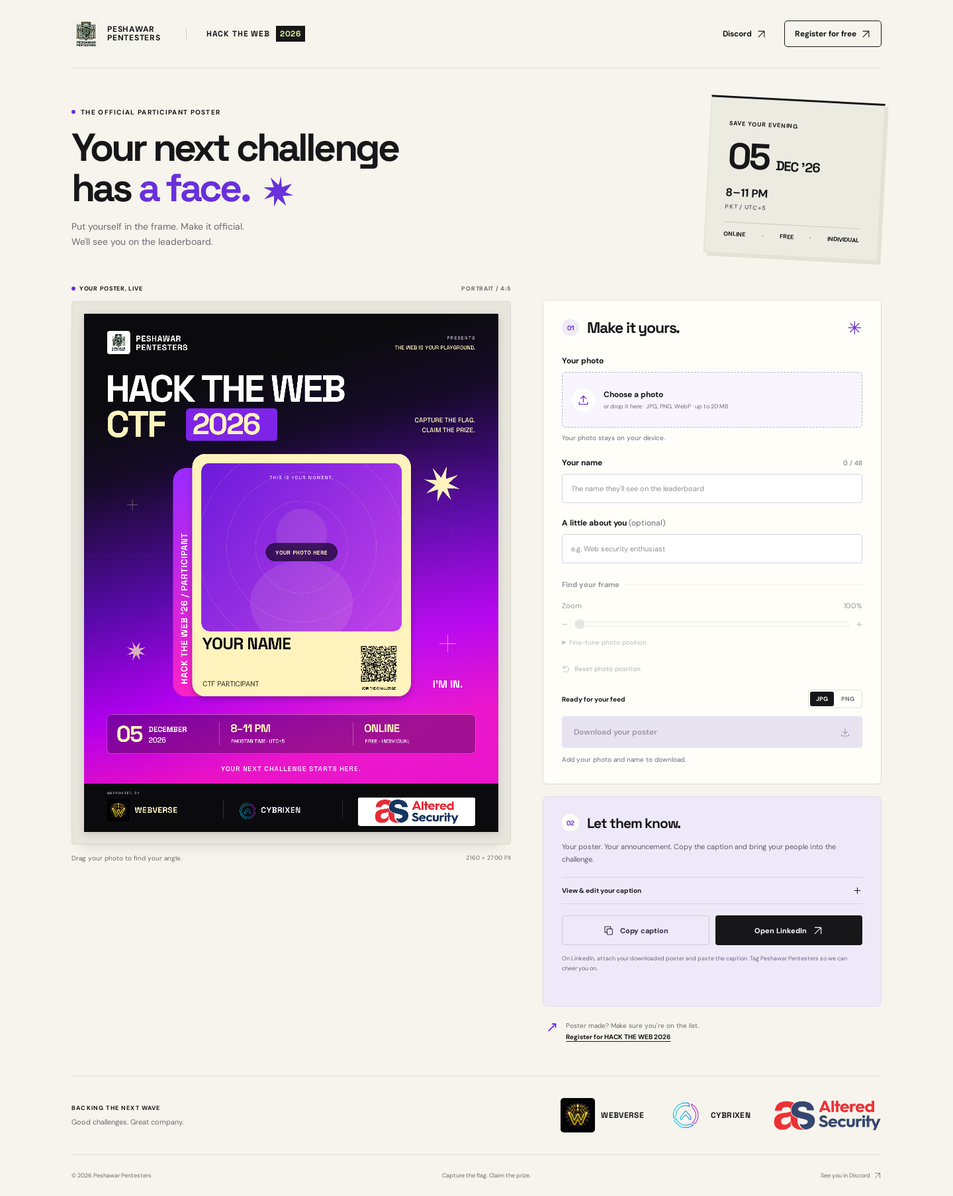
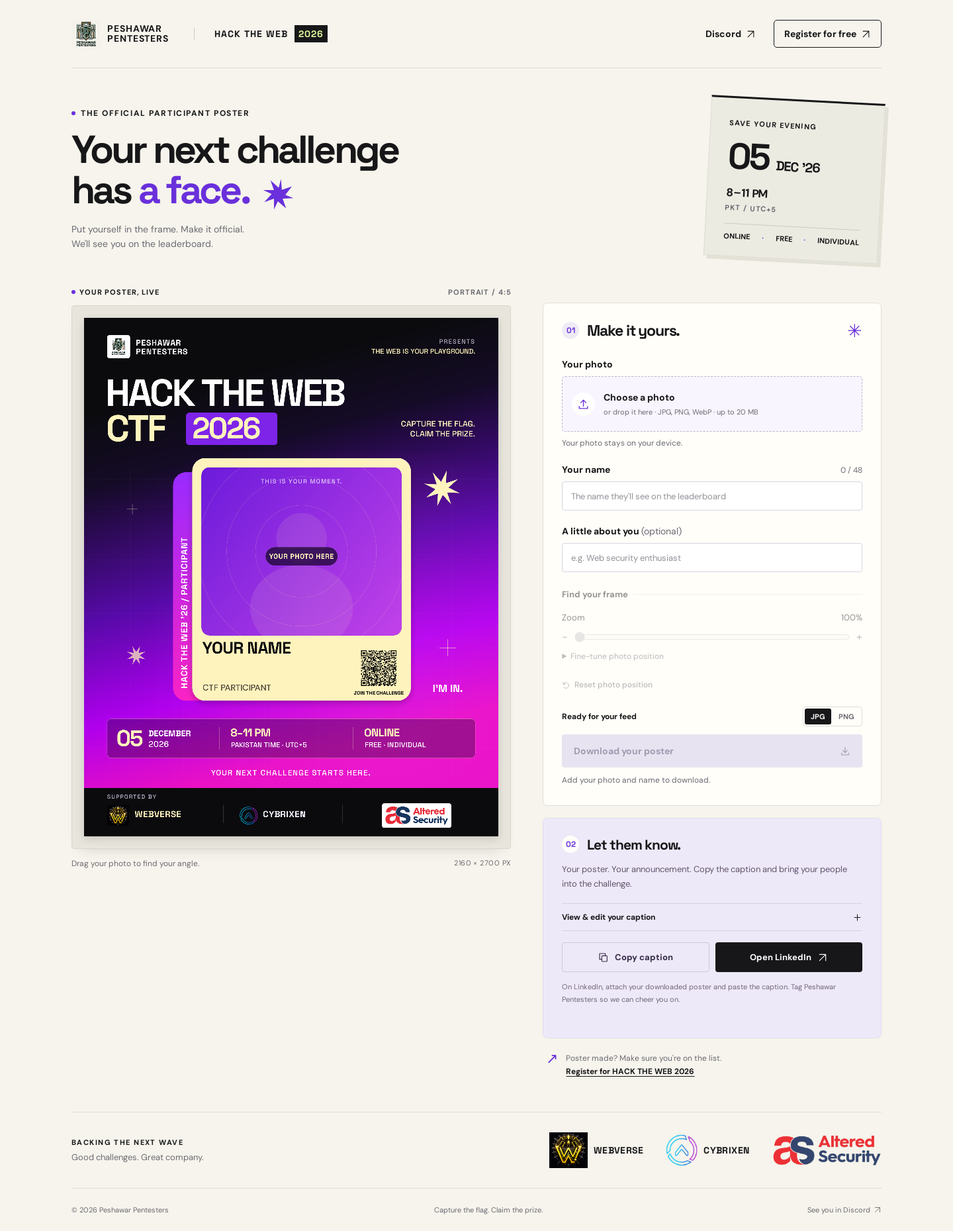
Fix sponsor sizing and small text while preserving original design

diff --git a/styles.css b/styles.css
@@ -2,12 +2,25 @@
 @font-face{font-family:DM;src:url('/assets/fonts/dm-sans.woff2') format('woff2');font-weight:400 700;font-display:swap}
 :root{color-scheme:light;--paper:#f6f4ec;--ink:#171719;--muted:#6c6a72;--line:#deddd5;--purple:#6930db;--pink:#ee4fbc;--lime:#e1fa9b;--cream:#fff3bd;--font:DM,Arial,sans-serif}
 *{box-sizing:border-box}body{margin:0;background:var(--paper);color:var(--ink);font-family:var(--font);-webkit-font-smoothing:antialiased}button,input,textarea{font:inherit}button,a,input,textarea,summary{ -webkit-tap-highlight-color:transparent}button,a{touch-action:manipulation}button{cursor:pointer}a{color:inherit}button:disabled{cursor:not-allowed}button[hidden],[hidden]{display:none!important}.icon-defs{position:absolute;width:0;height:0;overflow:hidden}.icon{width:19px;height:19px;flex-shrink:0;fill:none;stroke:currentColor;stroke-width:1.7;stroke-linecap:round;stroke-linejoin:round}a:focus-visible,button:focus-visible,summary:focus-visible,canvas:focus-visible,input:focus-visible,textarea:focus-visible{outline:3px solid var(--purple);outline-offset:4px}.shell{width:min(1224px,calc(100% - 80px));margin-inline:auto}.skip-link{position:absolute;left:12px;top:-100px;z-index:9;background:var(--ink);color:#fff;padding:12px}.skip-link:focus{top:12px}
-.site-header{height:103px;display:flex;align-items:center;border-bottom:1px solid var(--line);gap:38px}.brand{display:flex;align-items:center;gap:10px;text-decoration:none;line-height:1.05;font-size:12px;letter-spacing:.065em;font-weight:700}.brand img{border-radius:4px;object-fit:contain;mix-blend-mode:multiply}.edition{border-left:1px solid #cccac2;padding-left:30px;font-family:Space,Arial,sans-serif;font-size:12px;letter-spacing:.07em;font-weight:700}.edition span{background:var(--ink);color:var(--lime);padding:4px 6px;margin-left:5px}.header-nav{margin-left:auto;display:flex;align-items:center;gap:27px;font-size:12px;font-weight:700}.header-nav a{display:flex;align-items:center;gap:7px;text-decoration:none}.header-nav a:hover{text-decoration:underline;text-underline-offset:4px}.header-nav .register-link{border:1px solid var(--ink);padding:11px 15px;border-radius:5px}.header-nav .icon{width:15px;height:15px}
-.intro{display:flex;align-items:center;justify-content:space-between;gap:35px;padding:47px 0 42px}.eyebrow{font-size:10px;letter-spacing:.13em;line-height:1.5;font-weight:700;margin:0 0 15px;display:flex;align-items:center;gap:8px}.status-dot{width:6px;height:6px;border-radius:50%;background:var(--purple)}h1,h2,p{margin-top:0}h1{position:relative;font-family:Space,Arial,sans-serif;font-weight:700;font-size:clamp(38px,4.4vw,59px);line-height:1.04;letter-spacing:-.065em;margin-bottom:17px}h1>span{color:var(--purple)}.title-spark{fill:var(--purple);width:47px;height:47px;margin-left:20px;vertical-align:middle;transform:rotate(10deg)}.intro-description{font-size:14px;color:var(--muted);line-height:1.6;margin:0}.event-stamp{padding:25px 28px 23px;width:263px;flex-shrink:0;border:1px solid var(--line);border-top:3px solid var(--ink);background:#ecebe1;transform:rotate(3deg);box-shadow:5px 5px 0 #e4e2d7}.stamp-label{font-size:9px;letter-spacing:.1em;font-weight:700}.event-stamp strong{font-family:Space,Arial,sans-serif;font-size:55px;letter-spacing:-.06em;line-height:1.5;display:block}.event-stamp strong span{font-size:20px;letter-spacing:-.04em}.event-stamp p{font-weight:700;font-size:17px;margin:2px 0 17px}.event-stamp p span{display:block;font-size:9px;color:var(--muted);letter-spacing:.08em;margin-top:5px}.event-stamp>div{border-top:1px solid #cccac2;padding-top:11px;font-size:9px;font-weight:700;display:flex;justify-content:space-between}.event-stamp>div span{color:var(--purple)}
-.studio{display:grid;grid-template-columns:minmax(0,1.13fr) minmax(340px,.87fr);gap:48px;align-items:start;padding-bottom:50px;scroll-margin-top:20px}.preview-column{position:sticky;top:22px;min-width:0}.panel-heading{display:flex;align-items:center;justify-content:space-between;margin-bottom:13px;font-size:9px;letter-spacing:.08em;font-weight:700;color:var(--muted)}.panel-heading>span:first-child{display:flex;align-items:center;gap:6px;color:var(--ink)}.panel-heading i{display:inline-block;width:6px;height:6px;background:var(--purple);border-radius:50%}.poster-board{position:relative;padding:18px;background:#e7e5dc;border:1px solid #d9d6cc;border-radius:4px;box-shadow:0 13px 20px -15px #302d3d33}.poster-board canvas{width:100%;height:auto;display:block;aspect-ratio:4/5;background:#0b0b0c;box-shadow:0 4px 12px #0002;cursor:default;touch-action:pan-y}.poster-board.has-photo canvas{cursor:grab;touch-action:none}.poster-board.is-dragging canvas{cursor:grabbing}.loading-state{position:absolute;inset:18px;display:flex;align-items:center;justify-content:center;background:#111016;color:var(--cream);font-size:14px;text-align:center;padding:30px}.preview-note{display:flex;justify-content:space-between;gap:10px;font-size:10px;color:var(--muted);margin-top:14px}.quality-label{font-size:9px;letter-spacing:.04em;white-space:nowrap}.editor-column{padding-top:23px;min-width:0}.editor-card,.share-card{background:#fffef9;border:1px solid var(--line);border-radius:7px;padding:28px}.card-title{display:flex;align-items:center;gap:12px;margin-bottom:28px}.step{display:flex;align-items:center;justify-content:center;font-family:Space,Arial,sans-serif;font-size:10px;font-weight:700;width:26px;height:26px;border-radius:50%;background:#eeebf5;color:var(--purple)}h2{font-family:Space,Arial,sans-serif;letter-spacing:-.05em;font-size:23px;line-height:1.2;font-weight:700;margin:0}.small-star{margin-left:auto;color:var(--purple);font-size:27px;line-height:1}.field{margin-bottom:22px}.field-label{font-size:12px;font-weight:700;display:block;margin-bottom:9px}.field-label>span{font-weight:400;color:var(--muted)}.label-row{display:flex;justify-content:space-between;align-items:baseline;gap:12px}.label-row>span:not(.field-label){font-size:10px;color:var(--muted)}.label-row output{font-size:11px;font-variant-numeric:tabular-nums}.upload-area{position:relative;display:flex;align-items:center;gap:13px;padding:18px 14px;border:1px dashed #bdb4ce;border-radius:5px;background:#f8f5ff;cursor:pointer;min-height:84px;transition:border-color .2s,background .2s}.upload-area:hover,.upload-area.drag-over{border-color:var(--purple);background:#f0e9ff}.upload-area:focus-within{outline:3px solid var(--purple);outline-offset:3px}.upload-area input{position:absolute;width:100%;height:100%;opacity:0;inset:0;cursor:pointer}.upload-area>span{pointer-events:none}.upload-symbol{display:flex;align-items:center;justify-content:center;width:35px;height:35px;border-radius:50%;background:#fff;color:var(--purple);flex-shrink:0}.upload-area strong{display:block;font-size:12px;line-height:1.5;overflow-wrap:anywhere}.upload-area small{display:block;font-size:9px;color:var(--muted);margin-top:3px;line-height:1.5}.field-hint{font-size:10px;line-height:1.5;color:var(--muted);margin:8px 0 0}input[type=text],textarea{width:100%;background:#fff;border:1px solid #d8d5df;border-radius:4px;color:var(--ink);padding:12px 13px;font-size:12px}input[type=text]{min-height:44px}input::placeholder{color:#939098;font-size:11px}input:focus,textarea:focus{border-color:var(--purple);outline:none;box-shadow:0 0 0 3px #6930db13}.subtitle-field{margin-bottom:25px}.photo-controls{border:0;border-top:1px solid var(--line);padding:18px 0 0;margin:0;min-width:0}.photo-controls legend{font-size:11px;font-weight:700;padding:0 8px 0 0}.photo-controls:disabled{opacity:.45}.photo-controls .label-row label{font-size:11px}.range-row{display:flex;align-items:center;gap:10px;margin-top:10px}.range-row>span{font-size:16px;color:#78727f}input[type=range]{width:100%;height:20px;accent-color:var(--purple);cursor:pointer;margin:0}.position-details{margin-top:11px;font-size:10px}.position-details summary{cursor:pointer;color:var(--muted);font-size:10px;margin-bottom:12px}.position-details label{display:block;color:var(--muted);margin-top:8px}.text-button{padding:6px 0;display:flex;align-items:center;gap:6px;border:0;background:none;font-weight:500;font-size:10px}.text-button .icon{width:13px;height:13px}.text-button:hover{text-decoration:underline;text-underline-offset:3px}#reset-photo{margin-top:9px;color:var(--muted)}.download-section{margin-top:19px}.download-section .label-row{align-items:center;margin-bottom:12px}.download-section .field-label{margin:0;font-size:10px}.format-options{border:1px solid var(--line);border-radius:4px;padding:2px;display:flex;gap:2px}.format-options button{background:none;border:0;border-radius:3px;padding:5px 9px;font-size:9px;color:var(--muted);font-weight:700}.format-options button.selected{background:var(--ink);color:white}.button{display:flex;align-items:center;justify-content:center;gap:9px;min-height:45px;padding:12px 15px;border-radius:4px;text-decoration:none;font-size:11px;font-weight:700;border:1px solid transparent;transition:background .2s,transform .2s}.button:hover:not(:disabled){transform:translateY(-1px)}.button-primary{width:100%;background:var(--purple);color:white;justify-content:space-between;padding:15px 17px;font-size:12px}.button-primary:hover:not(:disabled){background:#5624bd}.button-primary:disabled{background:#e8e3f1;color:#a39aaf}.button-light{background:transparent;border-color:#cec7dc;color:#342a49}.button-light:hover{background:#eee8f8}.button-dark{background:var(--ink);color:white}.button-dark:hover{background:#37323e}.button .icon{width:16px;height:16px}.feedback{font-size:10px;margin:10px 0 0;color:var(--muted);line-height:1.6;min-height:16px}.feedback.error{color:#b2223a}.feedback.success{color:#285f35}.share-card{margin-top:18px;background:#eee9f8;border-color:#e3daef;padding:26px 28px}.share-card .card-title{margin-bottom:14px}.share-card .step{background:#fffef9}.share-card h2{font-size:21px}.share-card>p{font-size:11px;line-height:1.7;color:#60556f;margin-bottom:18px}.share-card details{border-block:1px solid #d9cee7;padding:12px 0;margin-bottom:17px}.share-card summary{display:flex;align-items:center;justify-content:space-between;cursor:pointer;font-size:10px;font-weight:700;list-style:none}.share-card summary::-webkit-details-marker{display:none}.share-card summary .icon{width:15px;height:15px}.share-card details[open] summary .icon{transform:rotate(45deg)}.share-card textarea{margin-top:13px;font-size:11px;line-height:1.65;resize:vertical;min-height:250px}.share-actions{display:grid;grid-template-columns:1fr 1fr;gap:9px}.share-card .share-help{font-size:9px;margin:13px 0 0;line-height:1.65;color:#71667d}.share-card .feedback{margin:7px 0 0}.share-card .text-button{margin-top:12px;color:#4b3465}.registration-note{display:flex;gap:12px;align-items:flex-start;padding:20px 5px 0;font-size:10px;line-height:1.7;color:var(--muted)}.registration-note>span{font-size:22px;color:var(--purple);line-height:1}.registration-note p{margin:0}.registration-note a{color:var(--ink);font-weight:700;text-decoration:underline;text-underline-offset:3px}
-.sponsors{display:flex;align-items:center;justify-content:space-between;gap:25px;border-block:1px solid var(--line);padding:30px 0;margin-bottom:20px}.sponsors .eyebrow{font-size:9px;margin-bottom:6px}.sponsors p:not(.eyebrow){font-size:11px;color:var(--muted);margin:0}.sponsor-list{display:flex;align-items:center;gap:34px}.sponsor{display:flex;align-items:center;gap:9px;font-family:Space,Arial,sans-serif;font-size:12px;letter-spacing:.03em}.sponsor.webverse img{border-radius:5px}.sponsor.cybrixen img{object-fit:contain}.sponsor.altered img{object-fit:contain}.site-footer{display:flex;justify-content:space-between;gap:15px;font-size:9px;color:var(--muted);padding-block:5px 25px}.site-footer a{display:flex;align-items:center;gap:5px;text-decoration:none}.site-footer .icon{width:12px;height:12px}.noscript{text-align:center;padding:20px;background:var(--cream)}.sr-only{position:absolute;width:1px;height:1px;padding:0;margin:-1px;overflow:hidden;clip:rect(0,0,0,0);white-space:nowrap;border:0}
+.site-header{height:103px;display:flex;align-items:center;border-bottom:1px solid var(--line);gap:38px}.brand{display:flex;align-items:center;gap:10px;text-decoration:none;line-height:1.05;font-size:14px;letter-spacing:.065em;font-weight:700}.brand img{border-radius:4px;object-fit:contain;mix-blend-mode:multiply}.edition{border-left:1px solid #cccac2;padding-left:30px;font-family:Space,Arial,sans-serif;font-size:14px;letter-spacing:.07em;font-weight:700}.edition span{background:var(--ink);color:var(--lime);padding:4px 6px;margin-left:5px}.header-nav{margin-left:auto;display:flex;align-items:center;gap:27px;font-size:14px;font-weight:700}.header-nav a{display:flex;align-items:center;gap:7px;text-decoration:none}.header-nav a:hover{text-decoration:underline;text-underline-offset:4px}.header-nav .register-link{border:1px solid var(--ink);padding:11px 15px;border-radius:5px}.header-nav .icon{width:15px;height:15px}
+.intro{display:flex;align-items:center;justify-content:space-between;gap:35px;padding:47px 0 42px}.eyebrow{font-size:12px;letter-spacing:.13em;line-height:1.5;font-weight:700;margin:0 0 15px;display:flex;align-items:center;gap:8px}.status-dot{width:6px;height:6px;border-radius:50%;background:var(--purple)}h1,h2,p{margin-top:0}h1{position:relative;font-family:Space,Arial,sans-serif;font-weight:700;font-size:clamp(38px,4.4vw,59px);line-height:1.04;letter-spacing:-.065em;margin-bottom:17px}h1>span{color:var(--purple)}.title-spark{fill:var(--purple);width:47px;height:47px;margin-left:20px;vertical-align:middle;transform:rotate(10deg)}.intro-description{font-size:14px;color:var(--muted);line-height:1.6;margin:0}.event-stamp{padding:25px 28px 23px;width:263px;flex-shrink:0;border:1px solid var(--line);border-top:3px solid var(--ink);background:#ecebe1;transform:rotate(3deg);box-shadow:5px 5px 0 #e4e2d7}.stamp-label{font-size:11px;letter-spacing:.1em;font-weight:700}.event-stamp strong{font-family:Space,Arial,sans-serif;font-size:55px;letter-spacing:-.06em;line-height:1.5;display:block}.event-stamp strong span{font-size:20px;letter-spacing:-.04em}.event-stamp p{font-weight:700;font-size:17px;margin:2px 0 17px}.event-stamp p span{display:block;font-size:11px;color:var(--muted);letter-spacing:.08em;margin-top:5px}.event-stamp>div{border-top:1px solid #cccac2;padding-top:11px;font-size:11px;font-weight:700;display:flex;justify-content:space-between}.event-stamp>div span{color:var(--purple)}
+.studio{display:grid;grid-template-columns:minmax(0,1.13fr) minmax(340px,.87fr);gap:48px;align-items:start;padding-bottom:50px;scroll-margin-top:20px}.preview-column{position:sticky;top:22px;min-width:0}.panel-heading{display:flex;align-items:center;justify-content:space-between;margin-bottom:13px;font-size:11px;letter-spacing:.08em;font-weight:700;color:var(--muted)}.panel-heading>span:first-child{display:flex;align-items:center;gap:6px;color:var(--ink)}.panel-heading i{display:inline-block;width:6px;height:6px;background:var(--purple);border-radius:50%}.poster-board{position:relative;padding:18px;background:#e7e5dc;border:1px solid #d9d6cc;border-radius:4px;box-shadow:0 13px 20px -15px #302d3d33}.poster-board canvas{width:100%;height:auto;display:block;aspect-ratio:4/5;background:#0b0b0c;box-shadow:0 4px 12px #0002;cursor:default;touch-action:pan-y}.poster-board.has-photo canvas{cursor:grab;touch-action:none}.poster-board.is-dragging canvas{cursor:grabbing}.loading-state{position:absolute;inset:18px;display:flex;align-items:center;justify-content:center;background:#111016;color:var(--cream);font-size:14px;text-align:center;padding:30px}.preview-note{display:flex;justify-content:space-between;gap:10px;font-size:12px;color:var(--muted);margin-top:14px}.quality-label{font-size:11px;letter-spacing:.04em;white-space:nowrap}.editor-column{padding-top:23px;min-width:0}.editor-card,.share-card{background:#fffef9;border:1px solid var(--line);border-radius:7px;padding:28px}.card-title{display:flex;align-items:center;gap:12px;margin-bottom:28px}.step{display:flex;align-items:center;justify-content:center;font-family:Space,Arial,sans-serif;font-size:12px;font-weight:700;width:26px;height:26px;border-radius:50%;background:#eeebf5;color:var(--purple)}h2{font-family:Space,Arial,sans-serif;letter-spacing:-.05em;font-size:23px;line-height:1.2;font-weight:700;margin:0}.small-star{margin-left:auto;color:var(--purple);font-size:27px;line-height:1}.field{margin-bottom:22px}.field-label{font-size:14px;font-weight:700;display:block;margin-bottom:9px}.field-label>span{font-weight:400;color:var(--muted)}.label-row{display:flex;justify-content:space-between;align-items:baseline;gap:12px}.label-row>span:not(.field-label){font-size:12px;color:var(--muted)}.label-row output{font-size:13px;font-variant-numeric:tabular-nums}.upload-area{position:relative;display:flex;align-items:center;gap:13px;padding:18px 14px;border:1px dashed #bdb4ce;border-radius:5px;background:#f8f5ff;cursor:pointer;min-height:84px;transition:border-color .2s,background .2s}.upload-area:hover,.upload-area.drag-over{border-color:var(--purple);background:#f0e9ff}.upload-area:focus-within{outline:3px solid var(--purple);outline-offset:3px}.upload-area input{position:absolute;width:100%;height:100%;opacity:0;inset:0;cursor:pointer}.upload-area>span{pointer-events:none}.upload-symbol{display:flex;align-items:center;justify-content:center;width:35px;height:35px;border-radius:50%;background:#fff;color:var(--purple);flex-shrink:0}.upload-area strong{display:block;font-size:14px;line-height:1.5;overflow-wrap:anywhere}.upload-area small{display:block;font-size:11px;color:var(--muted);margin-top:3px;line-height:1.5}.field-hint{font-size:12px;line-height:1.5;color:var(--muted);margin:8px 0 0}input[type=text],textarea{width:100%;background:#fff;border:1px solid #d8d5df;border-radius:4px;color:var(--ink);padding:12px 13px;font-size:14px}input[type=text]{min-height:44px}input::placeholder{color:#939098;font-size:13px}input:focus,textarea:focus{border-color:var(--purple);outline:none;box-shadow:0 0 0 3px #6930db13}.subtitle-field{margin-bottom:25px}.photo-controls{border:0;border-top:1px solid var(--line);padding:18px 0 0;margin:0;min-width:0}.photo-controls legend{font-size:13px;font-weight:700;padding:0 8px 0 0}.photo-controls:disabled{opacity:.45}.photo-controls .label-row label{font-size:13px}.range-row{display:flex;align-items:center;gap:10px;margin-top:10px}.range-row>span{font-size:16px;color:#78727f}input[type=range]{width:100%;height:20px;accent-color:var(--purple);cursor:pointer;margin:0}.position-details{margin-top:11px;font-size:12px}.position-details summary{cursor:pointer;color:var(--muted);font-size:12px;margin-bottom:12px}.position-details label{display:block;color:var(--muted);margin-top:8px}.text-button{padding:6px 0;display:flex;align-items:center;gap:6px;border:0;background:none;font-weight:500;font-size:12px}.text-button .icon{width:13px;height:13px}.text-button:hover{text-decoration:underline;text-underline-offset:3px}#reset-photo{margin-top:9px;color:var(--muted)}.download-section{margin-top:19px}.download-section .label-row{align-items:center;margin-bottom:12px}.download-section .field-label{margin:0;font-size:12px}.format-options{border:1px solid var(--line);border-radius:4px;padding:2px;display:flex;gap:2px}.format-options button{background:none;border:0;border-radius:3px;padding:5px 9px;font-size:11px;color:var(--muted);font-weight:700}.format-options button.selected{background:var(--ink);color:white}.button{display:flex;align-items:center;justify-content:center;gap:9px;min-height:45px;padding:12px 15px;border-radius:4px;text-decoration:none;font-size:13px;font-weight:700;border:1px solid transparent;transition:background .2s,transform .2s}.button:hover:not(:disabled){transform:translateY(-1px)}.button-primary{width:100%;background:var(--purple);color:white;justify-content:space-between;padding:15px 17px;font-size:14px}.button-primary:hover:not(:disabled){background:#5624bd}.button-primary:disabled{background:#e8e3f1;color:#a39aaf}.button-light{background:transparent;border-color:#cec7dc;color:#342a49}.button-light:hover{background:#eee8f8}.button-dark{background:var(--ink);color:white}.button-dark:hover{background:#37323e}.button .icon{width:16px;height:16px}.feedback{font-size:12px;margin:10px 0 0;color:var(--muted);line-height:1.6;min-height:16px}.feedback.error{color:#b2223a}.feedback.success{color:#285f35}.share-card{margin-top:18px;background:#eee9f8;border-color:#e3daef;padding:26px 28px}.share-card .card-title{margin-bottom:14px}.share-card .step{background:#fffef9}.share-card h2{font-size:21px}.share-card>p{font-size:13px;line-height:1.7;color:#60556f;margin-bottom:18px}.share-card details{border-block:1px solid #d9cee7;padding:12px 0;margin-bottom:17px}.share-card summary{display:flex;align-items:center;justify-content:space-between;cursor:pointer;font-size:12px;font-weight:700;list-style:none}.share-card summary::-webkit-details-marker{display:none}.share-card summary .icon{width:15px;height:15px}.share-card details[open] summary .icon{transform:rotate(45deg)}.share-card textarea{margin-top:13px;font-size:13px;line-height:1.65;resize:vertical;min-height:250px}.share-actions{display:grid;grid-template-columns:1fr 1fr;gap:9px}.share-card .share-help{font-size:11px;margin:13px 0 0;line-height:1.65;color:#71667d}.share-card .feedback{margin:7px 0 0}.share-card .text-button{margin-top:12px;color:#4b3465}.registration-note{display:flex;gap:12px;align-items:flex-start;padding:20px 5px 0;font-size:12px;line-height:1.7;color:var(--muted)}.registration-note>span{font-size:22px;color:var(--purple);line-height:1}.registration-note p{margin:0}.registration-note a{color:var(--ink);font-weight:700;text-decoration:underline;text-underline-offset:3px}
+.sponsors{display:flex;align-items:center;justify-content:space-between;gap:25px;border-block:1px solid var(--line);padding:30px 0;margin-bottom:20px}.sponsors .eyebrow{font-size:11px;margin-bottom:6px}.sponsors p:not(.eyebrow){font-size:13px;color:var(--muted);margin:0}.sponsor-list{display:flex;align-items:center;gap:34px}.sponsor{display:flex;align-items:center;gap:9px;font-family:Space,Arial,sans-serif;font-size:14px;letter-spacing:.03em}.sponsor.webverse img{border-radius:5px}.sponsor.cybrixen img{object-fit:contain}.sponsor.altered img{object-fit:contain}.site-footer{display:flex;justify-content:space-between;gap:15px;font-size:11px;color:var(--muted);padding-block:5px 25px}.site-footer a{display:flex;align-items:center;gap:5px;text-decoration:none}.site-footer .icon{width:12px;height:12px}.noscript{text-align:center;padding:20px;background:var(--cream)}.sr-only{position:absolute;width:1px;height:1px;padding:0;margin:-1px;overflow:hidden;clip:rect(0,0,0,0);white-space:nowrap;border:0}
 @media(min-width:1450px){.shell{width:1224px}.intro{padding-top:54px}.studio{gap:64px}h1{font-size:64px}.poster-board{padding:22px}.editor-card{padding:30px}}
-@media(max-width:1000px){.shell{width:calc(100% - 44px)}.site-header{gap:20px;height:88px}.edition{padding-left:20px;font-size:10px}.header-nav{gap:15px;font-size:11px}.intro{padding-top:35px}.studio{gap:24px;grid-template-columns:minmax(0,1fr) minmax(310px,.92fr)}.editor-card,.share-card{padding:22px}.event-stamp{width:230px;padding:21px}.sponsor-list{gap:18px}.sponsor{font-size:10px;gap:5px}.sponsor.altered img{width:135px}.poster-board{padding:12px}.loading-state{inset:12px}}
-@media(max-width:760px){.shell{width:calc(100% - 32px)}.site-header{height:80px;gap:12px}.brand{font-size:10px}.brand img{width:35px;height:35px}.edition{display:none}.header-nav{gap:15px;font-size:10px}.header-nav .register-link{padding:9px}.header-nav .icon{width:12px;height:12px}.intro{padding:31px 0 28px;gap:22px}.eyebrow{font-size:8px;letter-spacing:.08em}h1{font-size:clamp(34px,7.5vw,53px);letter-spacing:-.06em}.title-spark{width:30px;height:30px;margin-left:10px}.intro-description{font-size:12px}.event-stamp{width:185px;padding:16px;transform:rotate(2deg)}.event-stamp strong{font-size:43px}.event-stamp strong span{font-size:15px}.event-stamp p{font-size:13px;margin-bottom:12px}.event-stamp>div{font-size:7px}.stamp-label{font-size:7px}.studio{grid-template-columns:1fr;gap:20px}.preview-column{position:static;max-width:580px;width:100%;margin:auto}.poster-board{padding:13px}.preview-note{font-size:9px}.editor-column{padding-top:0;display:grid;grid-template-columns:1fr 1fr;gap:16px;align-items:start}.editor-card,.share-card{padding:22px;margin:0}.share-actions{grid-template-columns:1fr}.registration-note{padding-top:0;grid-column:2}.sponsors{align-items:flex-start;flex-direction:column;gap:20px;padding:25px 0}.sponsor-list{width:100%;justify-content:space-between;gap:16px}.sponsor{font-size:11px}.site-footer{font-size:8px;gap:10px}.quality-label{font-size:8px}}
-@media(max-width:520px){.header-nav>a:first-child{display:none}.site-header{height:74px}.header-nav .register-link{font-size:10px;padding:9px 11px}.intro{padding:29px 0 25px;display:block}.intro-copy{position:relative}.intro .eyebrow{margin-bottom:14px}h1{font-size:43px;margin-bottom:13px}.title-spark{width:33px;height:33px}.intro-description{font-size:12px}.event-stamp{margin-top:22px;width:100%;display:grid;grid-template-columns:1fr 1fr;align-items:center;padding:14px 17px;transform:none;box-shadow:none;border-top-width:2px;column-gap:15px}.stamp-label{grid-column:1;grid-row:1;font-size:7px}.event-stamp strong{grid-column:1;grid-row:2;font-size:35px;line-height:1.2;margin-top:5px}.event-stamp strong span{font-size:15px}.event-stamp p{grid-column:2;grid-row:1 / span 2;border-left:1px solid #cccac2;padding-left:19px;margin:0;font-size:16px}.event-stamp p span{font-size:8px}.event-stamp>div{grid-column:1 / -1;font-size:8px;margin-top:12px;padding-top:9px;justify-content:center;gap:14px}.panel-heading{font-size:8px}.editor-column{display:block}.editor-card,.share-card{padding:23px}.share-card{margin-top:16px}.share-actions{grid-template-columns:1fr 1fr}.registration-note{padding-top:20px}.sponsor-list{gap:10px;flex-wrap:wrap;justify-content:center}.sponsor{font-size:10px;gap:4px}.sponsor.webverse img{width:39px;height:39px}.sponsor.cybrixen img{width:45px;height:45px}.sponsor.altered img{width:123px;height:39px}.sponsors>div:first-child{width:100%;text-align:center}.sponsors .eyebrow{justify-content:center}.site-footer{flex-wrap:wrap;padding-bottom:20px;row-gap:12px}.site-footer>span:nth-child(2){display:none}.studio{padding-bottom:30px}.preview-note{font-size:8px}}
+@media(max-width:1000px){.shell{width:calc(100% - 44px)}.site-header{gap:20px;height:88px}.edition{padding-left:20px;font-size:12px}.header-nav{gap:15px;font-size:13px}.intro{padding-top:35px}.studio{gap:24px;grid-template-columns:minmax(0,1fr) minmax(310px,.92fr)}.editor-card,.share-card{padding:22px}.event-stamp{width:230px;padding:21px}.sponsor-list{gap:18px}.sponsor{font-size:12px;gap:5px}.sponsor.altered img{width:135px}.poster-board{padding:12px}.loading-state{inset:12px}}
+@media(max-width:760px){.shell{width:calc(100% - 32px)}.site-header{height:80px;gap:12px}.brand{font-size:12px}.brand img{width:35px;height:35px}.edition{display:none}.header-nav{gap:15px;font-size:12px}.header-nav .register-link{padding:9px}.header-nav .icon{width:12px;height:12px}.intro{padding:31px 0 28px;gap:22px}.eyebrow{font-size:11px;letter-spacing:.08em}h1{font-size:clamp(34px,7.5vw,53px);letter-spacing:-.06em}.title-spark{width:30px;height:30px;margin-left:10px}.intro-description{font-size:14px}.event-stamp{width:185px;padding:16px;transform:rotate(2deg)}.event-stamp strong{font-size:43px}.event-stamp strong span{font-size:15px}.event-stamp p{font-size:13px;margin-bottom:12px}.event-stamp>div{font-size:11px}.stamp-label{font-size:11px}.studio{grid-template-columns:1fr;gap:20px}.preview-column{position:static;max-width:580px;width:100%;margin:auto}.poster-board{padding:13px}.preview-note{font-size:11px}.editor-column{padding-top:0;display:grid;grid-template-columns:1fr 1fr;gap:16px;align-items:start}.editor-card,.share-card{padding:22px;margin:0}.share-actions{grid-template-columns:1fr}.registration-note{padding-top:0;grid-column:2}.sponsors{align-items:flex-start;flex-direction:column;gap:20px;padding:25px 0}.sponsor-list{width:100%;justify-content:space-between;gap:16px}.sponsor{font-size:13px}.site-footer{font-size:11px;gap:10px}.quality-label{font-size:11px}}
+@media(max-width:520px){.header-nav>a:first-child{display:none}.site-header{height:74px}.header-nav .register-link{font-size:12px;padding:9px 11px}.intro{padding:29px 0 25px;display:block}.intro-copy{position:relative}.intro .eyebrow{margin-bottom:14px}h1{font-size:43px;margin-bottom:13px}.title-spark{width:33px;height:33px}.intro-description{font-size:14px}.event-stamp{margin-top:22px;width:100%;display:grid;grid-template-columns:1fr 1fr;align-items:center;padding:14px 17px;transform:none;box-shadow:none;border-top-width:2px;column-gap:15px}.stamp-label{grid-column:1;grid-row:1;font-size:11px}.event-stamp strong{grid-column:1;grid-row:2;font-size:35px;line-height:1.2;margin-top:5px}.event-stamp strong span{font-size:15px}.event-stamp p{grid-column:2;grid-row:1 / span 2;border-left:1px solid #cccac2;padding-left:19px;margin:0;font-size:16px}.event-stamp p span{font-size:11px}.event-stamp>div{grid-column:1 / -1;font-size:11px;margin-top:12px;padding-top:9px;justify-content:center;gap:14px}.panel-heading{font-size:11px}.editor-column{display:block}.editor-card,.share-card{padding:23px}.share-card{margin-top:16px}.share-actions{grid-template-columns:1fr 1fr}.registration-note{padding-top:20px}.sponsor-list{gap:10px;flex-wrap:wrap;justify-content:center}.sponsor{font-size:12px;gap:4px}.sponsor.webverse img{width:39px;height:39px}.sponsor.cybrixen img{width:45px;height:45px}.sponsor.altered img{width:123px;height:39px}.sponsors>div:first-child{width:100%;text-align:center}.sponsors .eyebrow{justify-content:center}.site-footer{flex-wrap:wrap;padding-bottom:20px;row-gap:12px}.site-footer>span:nth-child(2){display:none}.studio{padding-bottom:30px}.preview-note{font-size:11px}}
 @media(prefers-reduced-motion:reduce){*,*::before,*::after{transition:none!important;scroll-behavior:auto!important}}
+
+/* Match visible sponsor heights after accounting for the supplied image margins. */
+.sponsor-mark { display: flex; align-items: center; justify-content: center; width: 48px; height: 48px; flex-shrink: 0; overflow: hidden; }
+.sponsor.webverse .sponsor-mark { width: 57.306px; height: 54px; }
+.sponsor.webverse img { width: 70.531px; height: 70.531px; flex-shrink: 0; }
+.sponsor.cybrixen img { width: 48px; height: 48px; transform: scale(1.454545); }
+.sponsor.altered img { width: auto; height: 48px; }
+@media (max-width: 520px) {
+  .sponsor-mark, .sponsor.cybrixen img { width: 36px; height: 36px; }
+  .sponsor.webverse .sponsor-mark { width: 42.980px; height: 40.5px; }
+  .sponsor.webverse img { width: 52.898px; height: 52.898px; }
+  .sponsor.altered img { width: auto; height: 36px; }
+}

diff --git a/js/poster.js b/js/poster.js
@@ -123,16 +123,16 @@ export class Poster {
     c.drawImage(this.images.organizer, 64, 49, 52, 52);
     this.text('PESHAWAR', 135, 72, 21, '#fff', 700, { spacing: 1 });
     this.text('PENTESTERS', 135, 95, 21, '#fff', 700, { spacing: 1 });
-    this.text('PRESENTS', 1020, 67, 12, '#b5aebf', 500, { align: 'right', spacing: 2 });
-    this.text('THE WEB IS YOUR PLAYGROUND.', 1020, 93, 14, CREAM, 500, { align: 'right' });
+    this.text('PRESENTS', 1020, 67, 16, '#b5aebf', 500, { align: 'right', spacing: 2 });
+    this.text('THE WEB IS YOUR PLAYGROUND.', 1020, 93, 18, CREAM, 500, { align: 'right' });
     this.line(60, 131, 1020, 131, '#ffffff38');
 
     this.text('HACK THE WEB', 56, 229, 98, '#fff', 700, { spacing: -5 });
     this.text('CTF', 57, 321, 96, CREAM, 700, { spacing: -5 });
     this.rounded(266, 247, 238, 84, 8, '#7e24e9');
     this.text('2026', 282, 314, 78, CREAM, 700, { spacing: -4 });
-    this.text('CAPTURE THE FLAG.', 1020, 283, 17, CREAM, 500, { align: 'right' });
-    this.text('CLAIM THE PRIZE.', 1020, 309, 17, CREAM, 500, { align: 'right' });
+    this.text('CAPTURE THE FLAG.', 1020, 283, 21, CREAM, 500, { align: 'right' });
+    this.text('CLAIM THE PRIZE.', 1020, 309, 21, CREAM, 500, { align: 'right' });
 
     // Offset label and cream photo card, inspired by the supplied participant badge.
     const ribbon = c.createLinearGradient(240, 410, 300, 990);
@@ -156,11 +156,11 @@ export class Poster {
     const name = this.name.trim() || 'YOUR NAME';
     const lines = this.nameLines(name, 375, 43);
     lines.forEach((line, i) => this.fitText(line, 308, 874 + i * 43, 375, 43, INK, 700, { spacing: -1 }));
-    this.fitText(this.title.trim() || 'CTF PARTICIPANT', 309, 970, 370, 18, '#4f4439', 500, { font: 'DM' });
+    this.fitText(this.title.trim() || 'CTF PARTICIPANT', 309, 970, 370, 22, '#4f4439', 500, { font: 'DM' });
     c.imageSmoothingEnabled = false;
     c.drawImage(this.images.qr, 714, 858, 108, 108);
     c.imageSmoothingEnabled = true;
-    this.text('JOIN THE CHALLENGE', 768, 979, 9, INK, 700, { align: 'center' });
+    this.text('JOIN THE CHALLENGE', 768, 981, 13, INK, 700, { align: 'center' });
     this.star(933, 444, 48, CREAM, Math.PI / 12);
     this.star(136, 879, 26, '#fff3bdba', Math.PI / 8);
     this.line(926, 859, 970, 859, '#fff3bd90', 2); this.line(948, 837, 948, 881, '#fff3bd90', 2);
@@ -169,30 +169,34 @@ export class Poster {
 
     this.rounded(60, 1044, 960, 102, 12, '#17042558', '#fff3bd55');
     this.text('05', 84, 1115, 59, CREAM, 700, { spacing: -3 });
-    this.text('DECEMBER', 168, 1089, 19, '#fff', 700);
-    this.text('2026', 168, 1117, 19, '#fff', 500);
+    this.text('DECEMBER', 168, 1089, 21, '#fff', 700);
+    this.text('2026', 168, 1117, 21, '#fff', 500);
     this.line(353, 1066, 353, 1124, '#fff3bd50');
     this.text('8–11 PM', 382, 1090, 29, CREAM, 700, { spacing: -1 });
-    this.text('PAKISTAN TIME · UTC+5', 383, 1118, 13, '#fff', 500);
+    this.text('PAKISTAN TIME · UTC+5', 383, 1118, 18, '#fff', 500);
     this.line(701, 1066, 701, 1124, '#fff3bd50');
     this.text('ONLINE', 730, 1090, 29, CREAM, 700, { spacing: -1 });
-    this.text('FREE · INDIVIDUAL', 732, 1118, 14, '#fff', 500);
-    this.text('YOUR NEXT CHALLENGE STARTS HERE.', 540, 1191, 17, '#fff', 500, { align: 'center', spacing: 2 });
+    this.text('FREE · INDIVIDUAL', 732, 1118, 19, '#fff', 500);
+    this.text('YOUR NEXT CHALLENGE STARTS HERE.', 540, 1191, 20, '#fff', 500, { align: 'center', spacing: 2 });
 
     // All three supplied sponsor identities appear in the downloaded poster.
     c.fillStyle = INK; c.fillRect(0, 1224, 1080, 126);
-    this.text('SUPPORTED BY', 60, 1252, 9, '#bfb6ce', 500, { spacing: 2 });
-    c.drawImage(this.images.webverse, 60, 1264, 59, 59);
-    this.text('WEBVERSE', 132, 1300, 21, CREAM, 700, { spacing: 0.5 });
+    this.text('SUPPORTED BY', 60, 1252, 15, '#bfb6ce', 500, { spacing: 2 });
+    // Match the visible height of all three marks while preserving their proportions.
+    const sponsorLogoSize = 48;
+    const sponsorLogoY = 1296 - sponsorLogoSize / 2;
+    // Trim only the black margin and compensate for the fine web details at this scale.
+    const webverseSize = 54;
+    c.drawImage(this.images.webverse, 48, 60, 416, 392, 60, 1296 - webverseSize / 2, webverseSize * 416 / 392, webverseSize);
+    this.text('WEBVERSE', 132, 1300, 23, CREAM, 700, { spacing: 0.5 });
     this.line(363, 1268, 363, 1316, '#ffffff2a');
     // Crop only the transparent padding, preserving the sponsor's actual mark.
-    c.drawImage(this.images.cybrixen, 15, 15, 66, 66, 405, 1274, 43, 43);
-    this.text('CYBRIXEN', 461, 1300, 21, '#f4f1ff', 700, { spacing: 0.5 });
+    c.drawImage(this.images.cybrixen, 15, 15, 66, 66, 405, sponsorLogoY, sponsorLogoSize, sponsorLogoSize);
+    this.text('CYBRIXEN', 466, 1300, 23, '#f4f1ff', 700, { spacing: 0.5 });
     this.line(674, 1268, 674, 1316, '#ffffff2a');
-    this.rounded(714, 1260, 306, 74, 5, '#fff');
-    const alteredHeight = 64;
-    const alteredWidth = alteredHeight * this.images.altered.width / this.images.altered.height;
-    c.drawImage(this.images.altered, 867 - alteredWidth / 2, 1265, alteredWidth, alteredHeight);
+    const alteredWidth = sponsorLogoSize * this.images.altered.width / this.images.altered.height;
+    this.rounded(867 - alteredWidth / 2 - 8, sponsorLogoY - 8, alteredWidth + 16, sponsorLogoSize + 16, 5, '#fff');
+    c.drawImage(this.images.altered, 867 - alteredWidth / 2, sponsorLogoY, alteredWidth, sponsorLogoSize);
   }
 
   placeholder() {
@@ -205,8 +209,8 @@ export class Poster {
     c.fillStyle = '#fff3bd19'; c.beginPath(); c.arc(567, 574, 66, 0, Math.PI * 2); c.fill();
     c.beginPath(); c.ellipse(567, 755, 134, 112, 0, 0, Math.PI * 2); c.fill();
     this.rounded(473, 597, 188, 48, 24, '#16052cba', '#ffffff24');
-    this.text('YOUR PHOTO HERE', 567, 627, 14, CREAM, 700, { align: 'center', spacing: 1 });
-    this.text('THIS IS YOUR MOMENT.', 567, 431, 12, '#ffffffbc', 500, { align: 'center', spacing: 2 });
+    this.text('YOUR PHOTO HERE', 567, 627, 18, CREAM, 700, { align: 'center', spacing: 1 });
+    this.text('THIS IS YOUR MOMENT.', 567, 431, 16, '#ffffffbc', 500, { align: 'center', spacing: 2 });
   }
 
   nameLines(name, width, size) {

diff --git a/index.html b/index.html
@@ -116,8 +116,8 @@
     <section class="sponsors" aria-labelledby="sponsor-title">
       <div><p class="eyebrow" id="sponsor-title">BACKING THE NEXT WAVE</p><p>Good challenges. Great company.</p></div>
       <div class="sponsor-list">
-        <div class="sponsor webverse"><img src="/assets/webverse.png" alt="Webverse logo" width="52" height="52"><strong>WEBVERSE</strong></div>
-        <div class="sponsor cybrixen"><img src="/assets/cybrixen.png" alt="Cybrixen logo" width="58" height="58"><strong>CYBRIXEN</strong></div>
+        <div class="sponsor webverse"><span class="sponsor-mark"><img src="/assets/webverse.png" alt="Webverse logo" width="48" height="48"></span><strong>WEBVERSE</strong></div>
+        <div class="sponsor cybrixen"><span class="sponsor-mark"><img src="/assets/cybrixen.png" alt="Cybrixen logo" width="48" height="48"></span><strong>CYBRIXEN</strong></div>
         <div class="sponsor altered"><img src="/assets/altered-security.png" alt="Altered Security" width="164" height="48"></div>
       </div>
     </section>

diff --git a/docs/VERIFICATION.md b/docs/VERIFICATION.md
@@ -1,17 +1,18 @@
 # Browser verification
 
-Checked locally in Chromium on 17 November 2026.
+Original-design text and sponsor adjustments checked locally in Chromium on 19 November 2026.
 
 - Desktop layout at 1440 px and mobile layout at 390 px; screenshots in this folder.
-- No horizontal overflow at 320, 390, 768, or 1280 px.
-- JPG/PNG/WebP upload path, corrupt image handling, rejection of unsupported files, and preservation of a prior valid image after an invalid replacement.
-- A photo and nonblank name are required before downloading. Long names wrap within the name card.
-- Zoom, pointer dragging, reset, keyboard arrow movement, and position sliders.
-- Caption copying via the browser clipboard.
+- No horizontal overflow at 320, 390, 520, 768, 1000, or 1440 px.
+- The new empty poster is compared pixel by pixel with a fresh render of the saved original commit. All pixels outside the intended small-text and sponsor areas are identical, including the gradient, stars, main headings, photo frame, and other artwork.
+- PNG upload, name-required download gating, a two-line participant name, and the enlarged optional title.
+- Zoom and reset photo controls.
 - JPEG and PNG downloads both open as 2160 × 2700 images.
-- The registration QR is decoded from the exported PNG and compared with the supplied Google Apps Script URL.
-- Participant photos and names are absent after a reload. No application request uploads a photo; browser object URLs are used for local image decoding.
+- Sponsor artwork heights measured from an actual exported PNG are 95, 94, and 94 pixels for Webverse, Cybrixen, and Altered Security, after transparent/plain background padding is accounted for.
+- Desktop, mobile, and poster screenshots in this folder show the original design with the typography and sponsor adjustments.
 - No JavaScript page errors during the checked flows.
+
+JavaScript syntax and `git diff --check` also pass. The photo geometry, event links, QR image, upload handlers, clipboard, and sharing code are unchanged from the original checkpoint. The broader upload-validation, dragging, keyboard controls, clipboard, QR decoding, and privacy checks listed in the 17 November verification were not repeated for these visual-only changes.
 
 Device file sharing uses the Web Share API and is offered only when the browser reports support. It has not been exercised on physical iOS or Android devices. A live Vercel deployment is not part of this verification; this repository is ready to import there.
 

diff --git a/README.md b/README.md
@@ -27,6 +27,10 @@ npm run dev
 
 Open http://127.0.0.1:5173. A static HTTP server also works. Use HTTP rather than opening `index.html` as a `file://` URL because the app uses JavaScript modules.
 
+## Design checkpoint
+
+The original website is saved as commit `c503db2` and the GitHub tag `backup/original-poster-2026-11-19`. The `fix/original-poster-readability` branch starts from that checkpoint and adjusts only sponsor sizing and small text. The original colors, layout, artwork, wording, and photo frame are retained.
+
 ## Files and content
 
 - `index.html` and `styles.css`: responsive editor page.
@@ -44,4 +48,4 @@ The registration URL is present in `index.html` for accessible links and in `js/
 
 ## Assets
 
-Sponsor and organizer identities were supplied by Peshawar Pentesters and retain their original artwork. Cybrixen's supplied mark is 96 × 96; it is rendered compactly, with a readable company label beside it. Webverse's supplied artwork includes an opaque black background. Space Grotesk and DM Sans are bundled under the SIL Open Font License; license files are in `assets/fonts/`. Sponsor logos remain the property of their owners.
+Sponsor and organizer identities were supplied by Peshawar Pentesters and retain their original artwork and proportions. Sponsor marks use matching visible heights on the poster and page footer. Only the plain black margin around Webverse and transparent padding around Cybrixen are trimmed during rendering; the source assets are unchanged. Webverse is optically adjusted for its fine line details. Altered Security's logo and its white plaque are reduced to balance the row. Space Grotesk and DM Sans are bundled under the SIL Open Font License; license files are in `assets/fonts/`. Sponsor logos remain the property of their owners.
